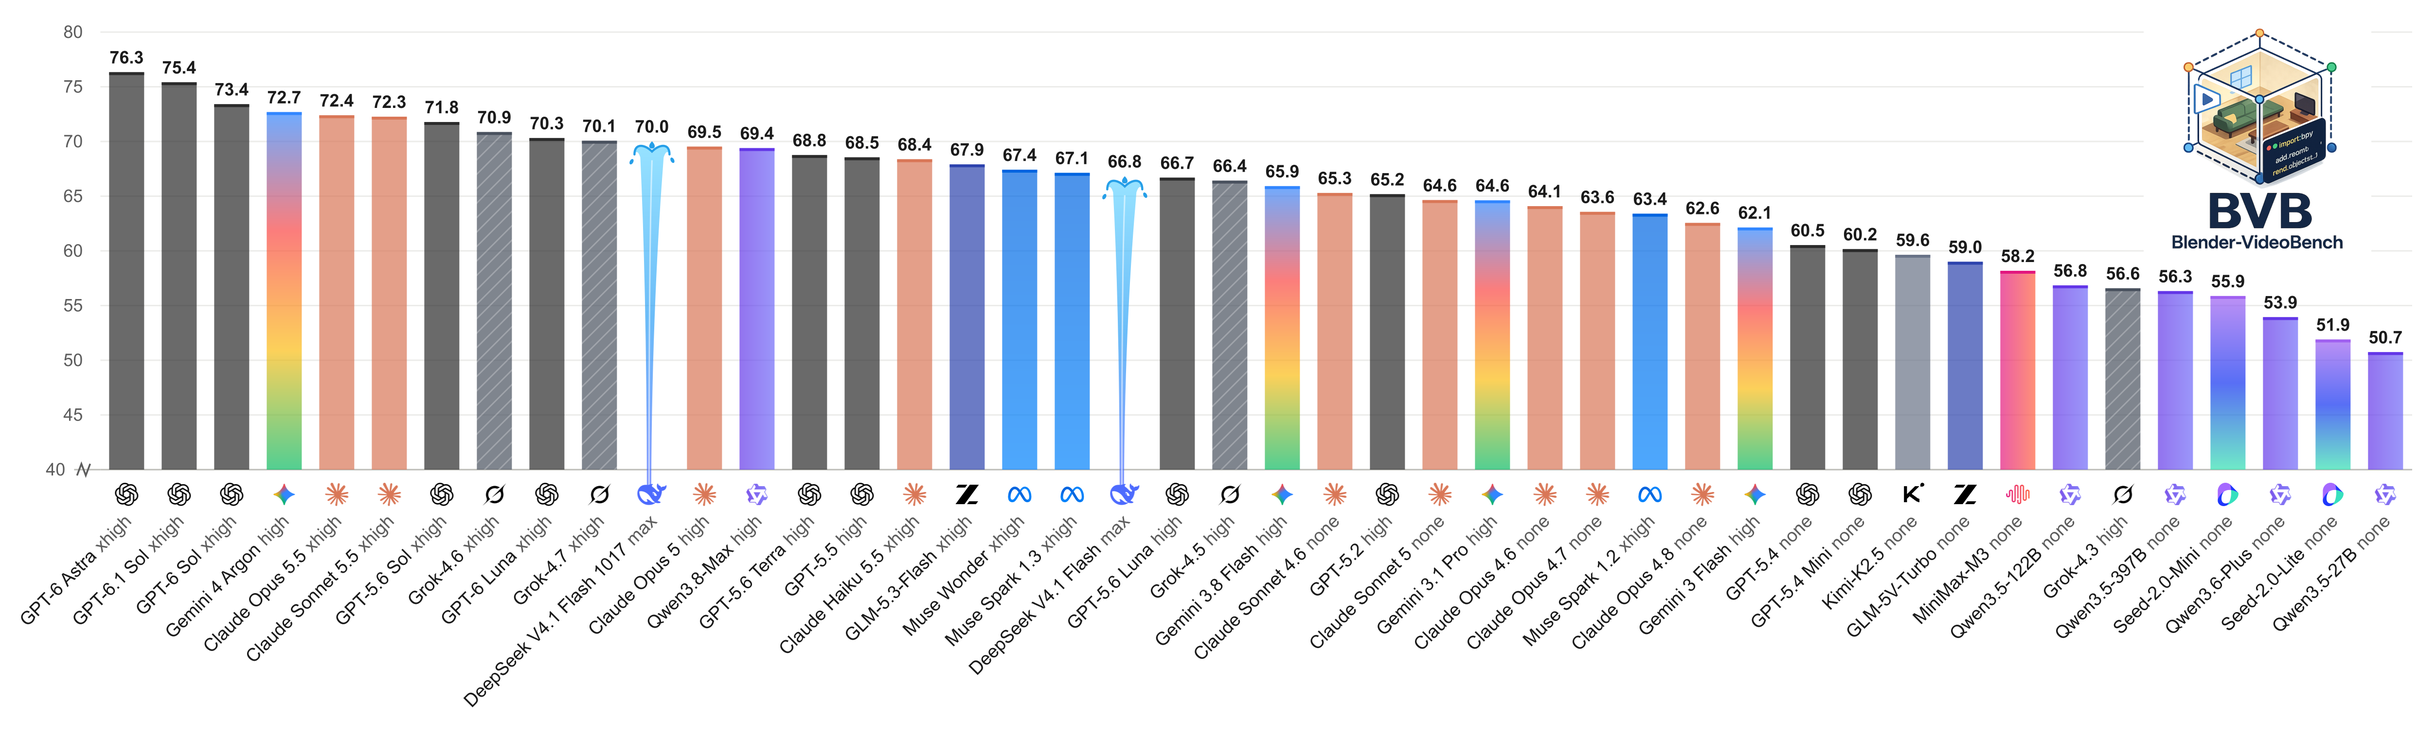
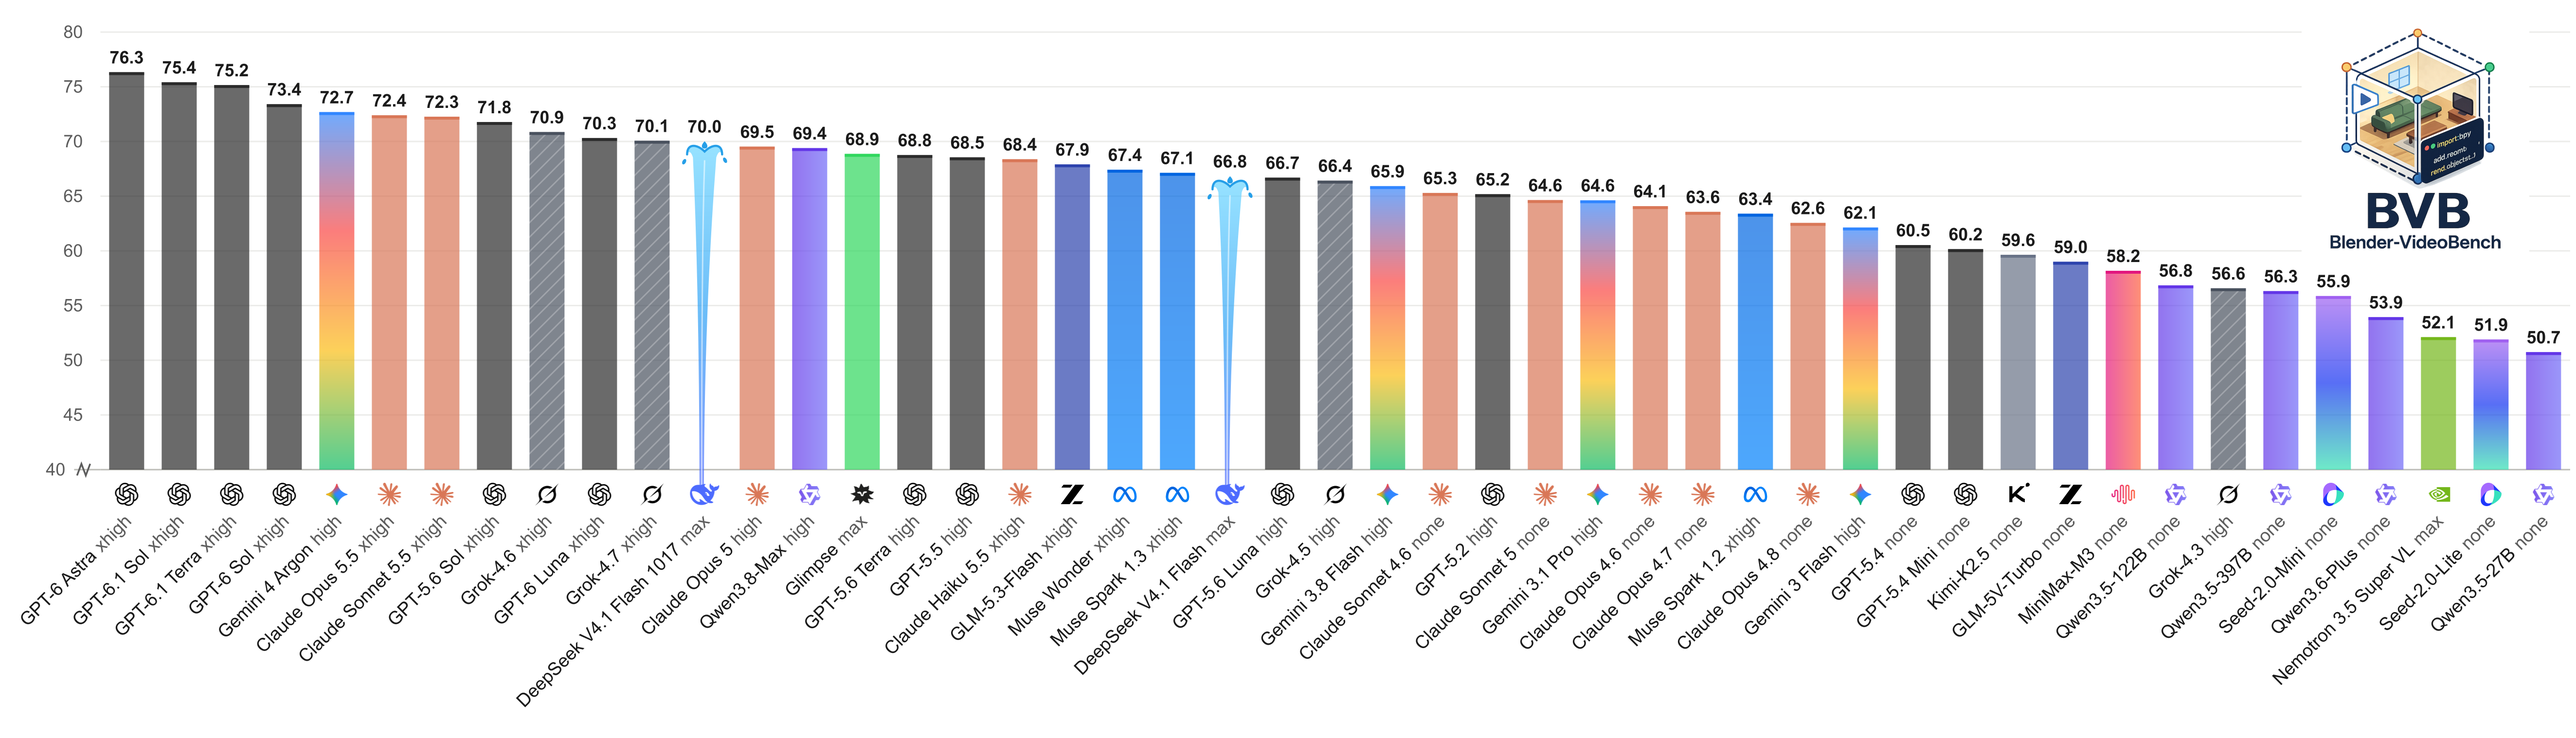
Update README leaderboard image and October 27 model news

Changed region(s): [[0.0, 0.0619, 0.9978, 0.8979], [0.9042, 0.031, 0.9666, 0.3406], [0.1871, 0.8979, 0.2183, 0.9598]]

diff --git a/README.md b/README.md
@@ -11,7 +11,7 @@
 
 <p align="center">
   <a href="https://yoloytang.me/BVB/#leaderboard">
-    <img src="assets/bvb-leaderboard.png?v=43c6327ae637" alt="BVB Overall leaderboard: best configuration per model" width="1200">
+    <img src="assets/bvb-leaderboard.png?v=7f9ee3e5d65d" alt="BVB Overall leaderboard: best configuration per model" width="1200">
   </a>
 </p>
 
@@ -30,6 +30,7 @@ limit. External asset libraries are not allowed.
 
 ## Updates
 
+- **[10/27/2026]** Added GPT-6.1 Terra (xhigh), Glimpse (max), and Nemotron 3.5 Super VL (max) to the [leaderboard](https://yoloytang.me/BVB/#leaderboard).
 - **[10/19/2026] ⚠ For users evaluating their own models:** We fixed missing multiple-choice options in Dual VQA evaluation. Please use the latest [`dual_vqa_metric.py`](eval/dual_vqa_metric.py) and re-download [`original_answers.jsonl`](https://huggingface.co/datasets/yoloytang/BVB-results/blob/main/_dual_vqa_shared/original_answers.jsonl).
 - **[10/17/2026]** Added [DeepSeek V4.1 Flash 1017](https://x.com/yoloytang/status/2111607426495795668?s=20) (max) to the [leaderboard](https://yoloytang.me/BVB/#leaderboard).
 - **[10/13/2026]** Added Muse Wonder (xhigh), Claude Haiku 5.5 (xhigh), Grok 4.7 (xhigh), DeepSeek V4.1 Flash (max), and Gemini 4 Argon (high)
